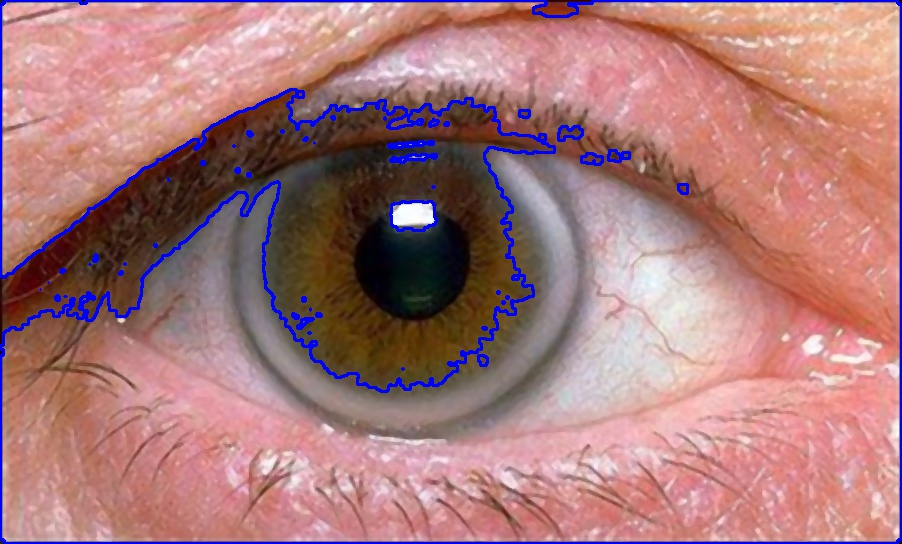
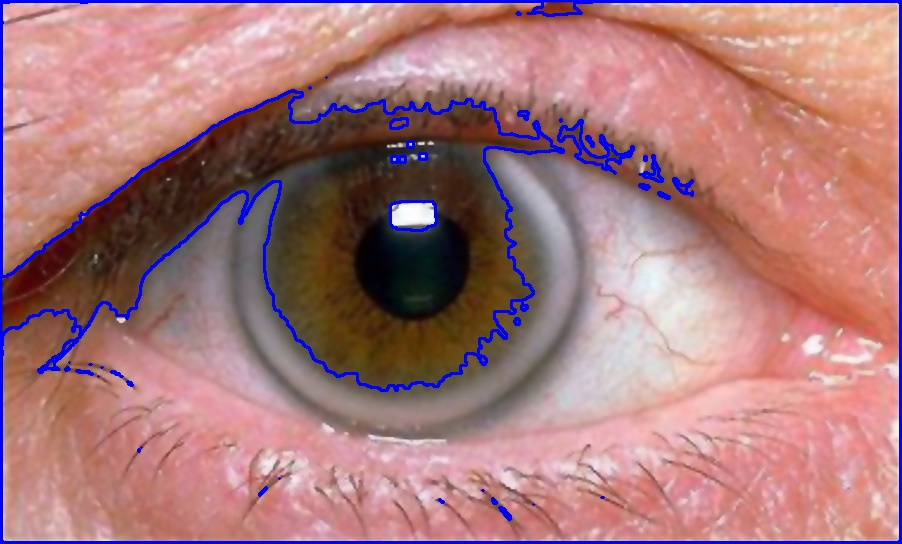
EDD-18

diff --git a/preprocessing.py b/preprocessing.py
@@ -5,84 +5,36 @@ import math
 
 class iris_detection():
     def __init__(self, image_path, typ):
-        self.img_test = None
-        self.img1 = None
-        self.img2 = None
-        self.img3 = None
-        self.img4 = None
-        self.img5 = None
-        self.img6 = None
+        self.img_gray = None
+        self.img_cropped = None
         self.img_path = image_path
         self.typ = typ
         self.full_path = "{}.{}".format(image_path, typ)
         self._img = None
-        self._pupil = None
-
-    # Load image as numpy array
-    def load_image(self):
-        self._img = cv2.imread(self.full_path)
-
-        # If the image doesn't exists or is not valid then imread returns None
-        if type(self._img) is type(None):
-            return False
-        else:
-            return True
-
-    def convert_to_gray_scale(self):
-        self._img = cv2.cvtColor(self._img, cv2.COLOR_BGR2GRAY)
-
-    # perform Canny-Edge-Detection
-    def detect_edges(self):
-
-        self.img1 = cv2.Canny(self._img, 10, 150)
-        self.img2 = cv2.Canny(self._img, 50, 150)
-        self.img3 = cv2.Canny(self._img, 150, 150)
-        self.img4 = cv2.Canny(self._img, 50, 10)
-        self.img5 = cv2.Canny(self._img, 50, 50)
-        self.img6 = cv2.Canny(self._img, 50, 150)
-
-    def cut_eyebrows(self):
-        height, width = self._img.shape[:2]
-        print("height: ", height)
-        print("width: ", width)
-        eyebrow_h = int(height / 4)
-        self._img = self._img[eyebrow_h:height, 0:width]
-
-    # ToDo
-    def detect_pupil(self):
-        # reduce noise
-        self._img = cv2.medianBlur(self._img, 5)
-
-        circles = cv2.HoughCircles(self._img, cv2.HOUGH_GRADIENT, dp=1, minDist=self._img.shape[0] / 2,
-                                   param1=100, param2=100, minRadius=0, maxRadius=0)
-
-        if circles is not None:
-            circles = np.uint16(np.around(circles))
-            for i in circles[0, :]:
-                center = (i[0], i[1])
-                # circle center
-                cv2.circle(self._img, center, 1, (0, 100, 100), 3)
-                # circle outline
-                radius = i[2]
-                cv2.circle(self._img, center, radius, (255, 0, 255), 3)
 
     def detect_contours(self):
+        # load image
+        self.load_image(self.full_path)
+
         # reduce noise
-        self._img = cv2.medianBlur(self._img, 5)
+        self._img = cv2.bilateralFilter(self._img, d=9, sigmaColor=150, sigmaSpace=20)
 
         kernel = cv2.getStructuringElement(cv2.MORPH_RECT, (5, 5))
 
-        gray = cv2.cvtColor(self._img, cv2.COLOR_BGR2GRAY)
-        retval, thresholded = cv2.threshold(gray, 80, 255, 0)
+        self.convert_to_gray_scale(self._img)
+
+        retval, thresholded = cv2.threshold(self.img_gray, 80, 255, cv2.THRESH_TOZERO_INV)
 
         closed = cv2.erode(cv2.dilate(thresholded, kernel, iterations=1), kernel, iterations=1)
-        #closed = cv2.morphologyEx(close, cv2.MORPH_CLOSE, kernel)
 
-        contours, hierarchy = cv2.findContours(closed, cv2.RETR_LIST, cv2.CHAIN_APPROX_NONE)
+        contours, hierarchy = cv2.findContours(closed, cv2.RETR_TREE, cv2.CHAIN_APPROX_NONE)
 
         drawing = np.copy(self._img)
+
+        # draw all detected contours in blue
         cv2.drawContours(drawing, contours, -1, (255, 0, 0), 2)
 
+        # analyze contours and draw ellipse + center in green
         for contour in contours:
 
             area = cv2.contourArea(contour)
@@ -91,7 +43,7 @@ class iris_detection():
             extend = area / (bounding_box[2] * bounding_box[3])
 
             # removing candidates that are too small
-            if area < 600:
+            if area < 20000:
                 continue
 
             # reject the contours with big extend
@@ -105,7 +57,7 @@ class iris_detection():
             circumference = cv2.arcLength(contour, True)
             circularity = circumference ** 2 / (4 * math.pi * area)
 
-            if circularity > 1.3:
+            if circularity > 1.2:
                 continue
 
             # calculate countour center and draw a dot there
@@ -114,6 +66,13 @@ class iris_detection():
                 center = (int(m['m10'] / m['m00']), int(m['m01'] / m['m00']))
                 cv2.circle(drawing, center, 3, (0, 255, 0), -1)
 
+                # crop image
+                self.crop_image(self._img, contour)
+
+                # store image
+                store_path = "{}_cropped.{}".format(self.img_path, self.typ)
+                self.store_image(self.img_cropped, store_path)
+
             # fit an ellipse around the contour and draw it into the image
             try:
                 ellipse = cv2.fitEllipse(contour)
@@ -121,28 +80,31 @@ class iris_detection():
             except:
                 pass
 
-
         self._img = drawing
-
-
-    def store_image(self):
-
         store_path = "{}_analyzed.{}".format(self.img_path, self.typ)
 
-        cv2.imwrite(store_path, self._img)
+        self.store_image(self._img, store_path)
 
-        cv2.imwrite("data/canny-1.png", self.img1)
-        cv2.imwrite("data/canny-2.png", self.img2)
-        cv2.imwrite("data/canny-3.png", self.img3)
-        cv2.imwrite("data/canny-4.png", self.img4)
-        cv2.imwrite("data/canny-5.png", self.img5)
-        cv2.imwrite("data/canny-6.png", self.img6)
+    #############################################
+    # Helper Methods
+    #############################################
+    # Load image as numpy array
+    def load_image(self, path):
+        self._img = cv2.imread(path)
 
-    def start_detection(self):
-        self.load_image()
-        #self.convert_to_gray_scale()
-        #self.cut_eyebrows()
-        self.detect_edges()
-        #self.detect_pupil()
-        self.detect_contours()
-        self.store_image()
+        # If the image doesn't exists or is not valid then imread returns None
+        if type(self._img) is type(None):
+            return False
+        else:
+            return True
+
+    def convert_to_gray_scale(self, image):
+        self.img_gray = cv2.cvtColor(image, cv2.COLOR_BGR2GRAY)
+
+    def crop_image(self, image, contour):
+        x, y, w, h = cv2.boundingRect(contour)
+
+        self.img_cropped = image[y:y + h, x:x + w]
+
+    def store_image(self, image, path):
+        cv2.imwrite(path, image)

diff --git a/alternative_methods.py b/alternative_methods.py
@@ -1,0 +1,51 @@
+import cv2
+
+
+class testing:
+    def __init__(self, image_path, typ):
+        self.img_gray = None
+        self.img_cropped = None
+        self.img1 = None
+        self.img2 = None
+        self.img3 = None
+        self.img4 = None
+        self.img5 = None
+        self.img6 = None
+        self.img_path = image_path
+        self.typ = typ
+        self.full_path = "{}.{}".format(image_path, typ)
+        self._img = None
+        self._pupil = None
+
+    # perform Canny-Edge-Detection
+    def detect_edges(self):
+        self.img1 = cv2.Canny(self._img, 10, 150)
+        self.img2 = cv2.Canny(self._img, 50, 150)
+        self.img3 = cv2.Canny(self._img, 150, 150)
+        self.img4 = cv2.Canny(self._img, 50, 10)
+        self.img5 = cv2.Canny(self._img, 50, 50)
+        self.img6 = cv2.Canny(self._img, 50, 150)
+
+    def cut_eyebrows(self):
+        height, width = self._img.shape[:2]
+        print("height: ", height)
+        print("width: ", width)
+        eyebrow_h = int(height / 4)
+        self._img = self._img[eyebrow_h:height, 0:width]
+
+    def detect_circles(self):
+        # reduce noise
+        self._img = cv2.medianBlur(self._img, 5)
+
+        circles = cv2.HoughCircles(self._img, cv2.HOUGH_GRADIENT, dp=1, minDist=self._img.shape[0] / 2,
+                                   param1=100, param2=100, minRadius=0, maxRadius=0)
+
+        if circles is not None:
+            circles = np.uint16(np.around(circles))
+            for i in circles[0, :]:
+                center = (i[0], i[1])
+                # circle center
+                cv2.circle(self._img, center, 1, (0, 100, 100), 3)
+                # circle outline
+                radius = i[2]
+                cv2.circle(self._img, center, radius, (255, 0, 255), 3)

diff --git a/main.py b/main.py
@@ -7,16 +7,20 @@ def main():
     image_path1 = "data/as-test1"
     image_path2 = "data/as-test2"
     image_path3 = "data/as-test3"
+    image_path4 = "data/as-test4"
     typ = "jpg"
 
     id = preprocessing.iris_detection(image_path1, typ)
-    id.start_detection()
+    id.detect_contours()
 
     id2 = preprocessing.iris_detection(image_path2, typ)
-    id2.start_detection()
+    id2.detect_contours()
 
     id3 = preprocessing.iris_detection(image_path3, typ)
-    id3.start_detection()
+    id3.detect_contours()
+
+    id4 = preprocessing.iris_detection(image_path4, typ)
+    id4.detect_contours()
 
 
 if __name__ == '__main__':
